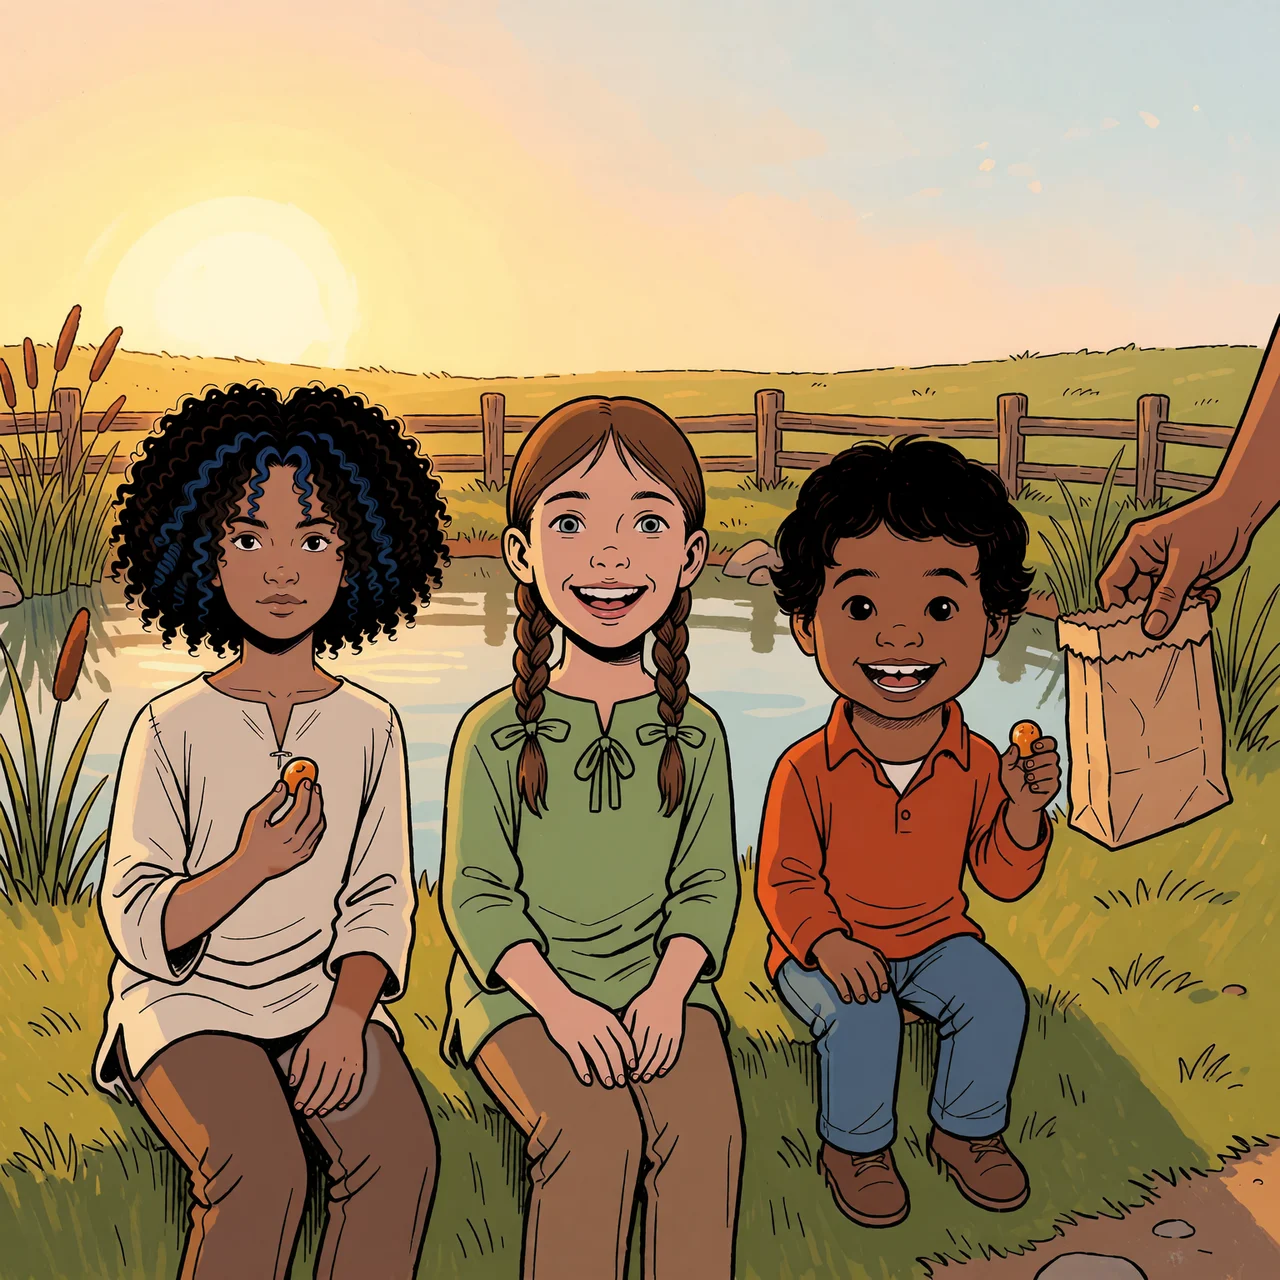
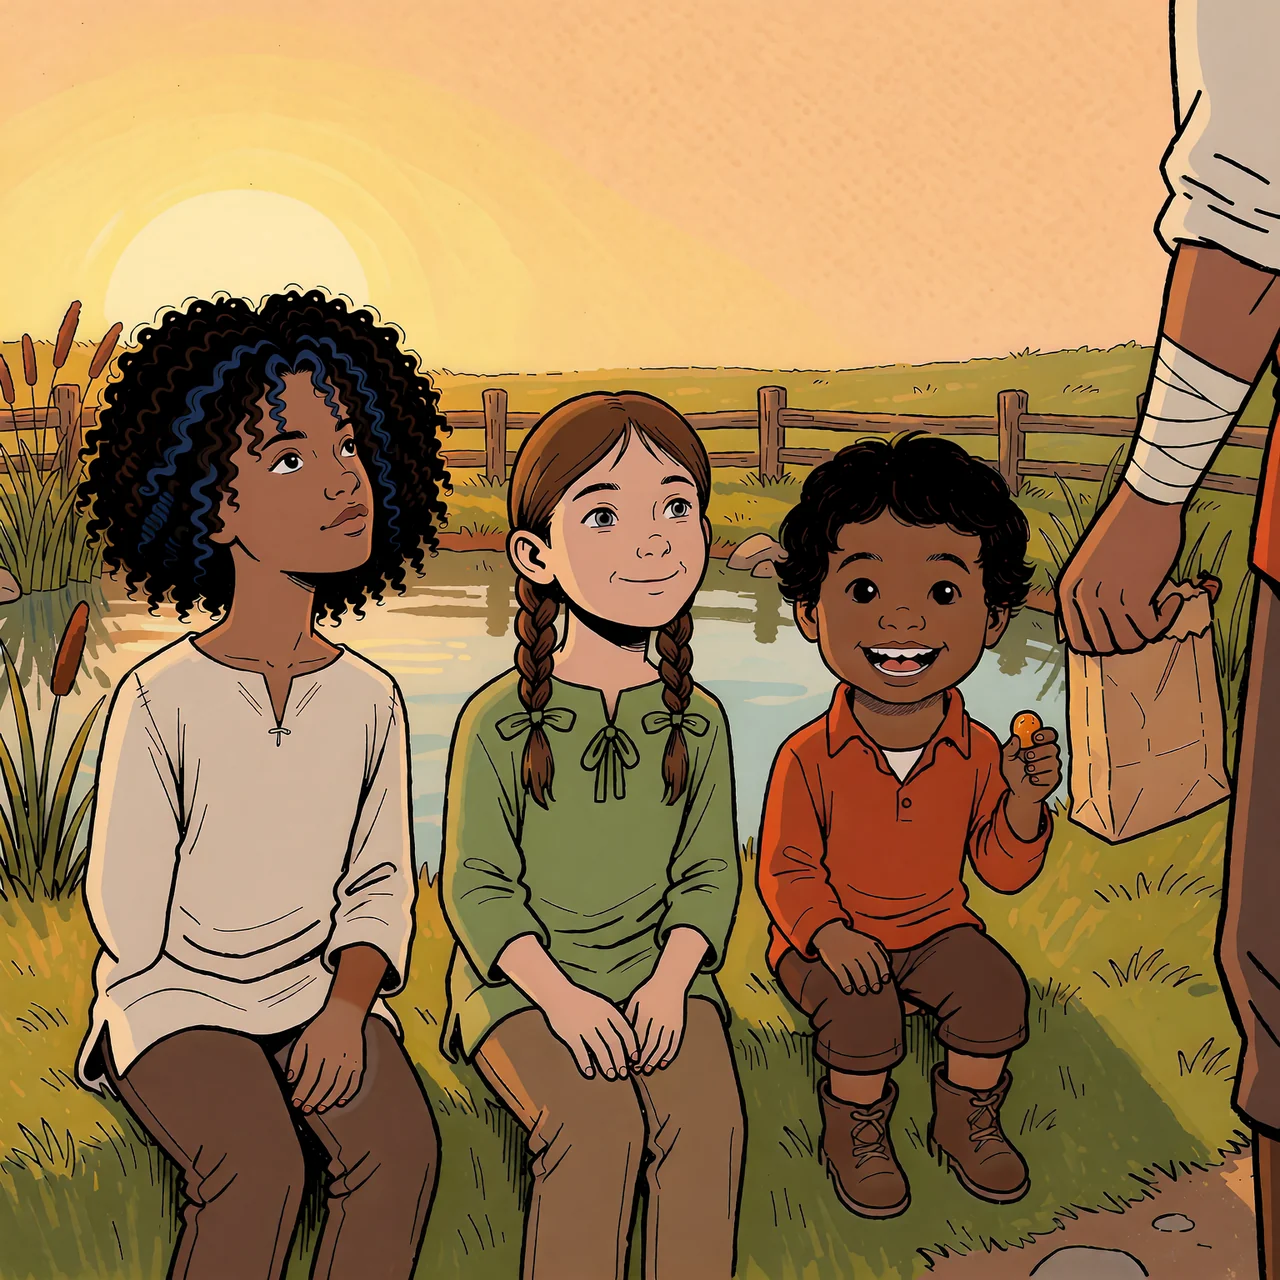
Walks 7 and 8: Kes and Lumi on the boards, the dock's north edge kept clear; Maudie facing the dock; redrawn skiff pictures
Claude-Session: https://claude.ai/code/session_01JTmPYBGE5RJi7qTbK5Qior

diff --git a/src/server/pond.ts b/src/server/pond.ts
@@ -256,15 +256,16 @@ export class PondRoom {
     this.spots = pondSpots(this.game.board, shrine.starts, shrine.house);
     this.gatheredAt = 1e9;
     const taken: Pt[] = [];
-    const put = (id: number, a: Anchor) => {
-      const at = this.openNear(this.anchor(a), taken);
+    const put = (id: number, a: Anchor, off?: [number, number]) => {
+      const base = this.anchor(a);
+      const at = this.openNear(off ? pt(base.x + off[0], base.y + off[1]) : base, taken);
       taken.push(at);
       const p = this.player(id);
       p.pos = p.prev = at;
       p.run = id === ROOK_ID;
     };
     W.people.forEach((p, i) => {
-      put(10 + i, p.at);
+      put(10 + i, p.at, p.off);
       this.walkLines.set(p.name, p.lines);
       // Anyone the story doesn't need where they are wanders about near their place.
       if (!p.stay && p.name !== W.go) {
@@ -302,7 +303,7 @@ export class PondRoom {
       const b = g.board;
       for (let tries = 0; tries < 12; tries++) {
         const to = pt(w.home.x + Math.round((this.rand() * 2 - 1) * Wd.range), w.home.y + Math.round((this.rand() * 2 - 1) * Wd.range));
-        if (!b.inside(to) || !b.passable(to, Mover.Walker) || g.players.some((q) => q.pos.x === to.x && q.pos.y === to.y)) continue;
+        if (!b.inside(to) || !b.passable(to, Mover.Walker) || this.banned(to) || g.players.some((q) => q.pos.x === to.x && q.pos.y === to.y)) continue;
         this.walk(id, to);
         break;
       }
@@ -327,8 +328,9 @@ export class PondRoom {
         return f ? pt(mid(f), f.y1 + 2) : this.spots.rook;
       }
       case "landing": {
+        // On the boards, one tile in from the dock's north edge (Ladi, 25 Nov: the edge row reads as standing on air).
         const k = box("skiff");
-        return k ? pt(k.x1 + 2, k.y0) : this.spots.rook;
+        return k ? pt(k.x1 + 3, k.y0 + 1) : this.spots.rook;
       }
       case "stall": {
         // Orrin's open workshop is the stall now (the horseshoe island): before its door, west.
@@ -366,9 +368,20 @@ export class PondRoom {
         for (let dx = -r; dx <= r; dx++) {
           if (Math.max(Math.abs(dx), Math.abs(dy)) !== r) continue;
           const q = pt(at.x + dx, at.y + dy);
-          if (b.inside(q) && b.passable(q, Mover.Walker) && !taken.some((t) => t.x === q.x && t.y === q.y)) return q;
+          if (b.inside(q) && b.passable(q, Mover.Walker) && !this.banned(q) && !taken.some((t) => t.x === q.x && t.y === q.y)) return q;
         }
     return at;
+  }
+
+  /**
+   * Tiles nobody is put or wanders to: the dock's north edge row, from its mooring post by the skiff
+   * to its land end, which reads as standing on air (Ladi, 25 Nov).
+   */
+  private banned(q: Pt) {
+    const ks = (this.game.shrine.props ?? []).filter((p) => p.kind === "skiff");
+    if (!ks.length) return false;
+    const x1 = Math.max(...ks.map((p) => p.x)), y0 = Math.min(...ks.map((p) => p.y));
+    return q.y === y0 && q.x >= x1 + 1 && q.x <= x1 + 6;
   }
 
   onTick() {
@@ -461,6 +474,12 @@ export class PondRoom {
     }
     for (const p of this.game.players) if (p.id !== ROOK_ID && p.pos.x === at.x && p.pos.y === at.y) return { name: p.name, at: () => this.player(p.id).pos };
     return null;
+  }
+
+  /** Where the walk's people face while they stand (WalkPerson.look). */
+  private looks() {
+    if (this.walkDef.n === 1 || !this.game) return [];
+    return this.walkDef.people.flatMap((p, i) => (p.look ? [{ id: 10 + i, ...this.anchor(p.look) }] : []));
   }
 
   /** Who to talk to next. Walk 1's waits until Hesta has come down to the pond. */
@@ -560,7 +579,9 @@ export class PondRoom {
     const talk = W.people.find((p) => p.name === thing.name)?.talk;
     if (talk && n === 0) {
       const on = W.n !== 1 && thing.name === W.go && this.chain && !first;
-      this.exchange(talk, on ? () => this.ask(thing, W.ask, "Go on") : undefined);
+      // After the walk's first talk, whoever has somewhere to be goes there, running (walk 7's Lumi).
+      const off = W.first?.name === thing.name ? () => W.people.forEach((p, i) => p.then && ((this.player(10 + i).run = true), this.walk(10 + i, this.openNear(this.anchor(p.then), [])))) : undefined;
+      this.exchange(talk, on ? () => this.ask(thing, W.ask, "Go on") : off);
       this.broadcast();
       return;
     }
@@ -669,7 +690,7 @@ export class PondRoom {
   }
 
   storyView(): StoryView {
-    return { run: POND.title, movement: 0, title: this.walkDef.n === 1 ? POND.title : this.walkDef.title, ring: null, mark: null, kes: 0, rival: null, note: "", pond: { lantern: this.spots.lantern, walk: this.walkDef.n, light: this.walkDef.light, ...(this.kitchen ? { kitchen: this.kitchen } : {}), ...(this.leavingAt >= 0 ? { leaving: true } : {}), ...(this.done ? { done: true } : {}), ...(this.optional ? { optional: this.optional } : {}), ...(this.goal() ? { goal: this.goal()! } : {}), ...(this.asking ? { ask: { text: this.asking.text, choices: this.asking.choices, no: this.asking.no } } : {}) } };
+    return { run: POND.title, movement: 0, title: this.walkDef.n === 1 ? POND.title : this.walkDef.title, ring: null, mark: null, kes: 0, rival: null, note: "", pond: { lantern: this.spots.lantern, walk: this.walkDef.n, light: this.walkDef.light, ...(this.kitchen ? { kitchen: this.kitchen } : {}), ...(this.leavingAt >= 0 ? { leaving: true } : {}), ...(this.done ? { done: true } : {}), ...(this.optional ? { optional: this.optional } : {}), ...(this.goal() ? { goal: this.goal()! } : {}), ...(this.looks().length ? { looks: this.looks() } : {}), ...(this.asking ? { ask: { text: this.asking.text, choices: this.asking.choices, no: this.asking.no } } : {}) } };
   }
 
   view(): RoomView {

diff --git a/src/engine/walks.ts b/src/engine/walks.ts
@@ -25,6 +25,12 @@ export interface WalkPerson {
   offer?: { lines: { who: string; text: string }[]; ask: string; runs: { label: string; run: "o1" | "o2" | "o3a" | "o3b" | "o3c"; then?: { who: string; text: string }[] }[] };
   /** Said over their head now and then while he is not close (Maudie's "When you've finished playing."). */
   idle?: string;
+  /** Tiles from their place (east, south), to stand clear of something there (walk 7: off the landing's posts, onto the grass). */
+  off?: [number, number];
+  /** Where they face while standing (walk 7: Maudie toward the landing). */
+  look?: Anchor;
+  /** Where they go on their own once the walk's `first` talk is done (walk 7: Lumi runs home). */
+  then?: Anchor;
   /** An exchange said on the first tap, one line after another, who by who (Kes's challenge in walk 7); later taps say `lines`. */
   talk?: { who: string; text: string }[];
 }
@@ -88,8 +94,10 @@ export const WALKS: Walk[] = [
     n: 7, title: "Sunset", light: "sunset", after: 4, next: 5, go: "Lumi", start: "landing",
     first: { name: "Kes", goal: "Talk to Kes" }, goal: "Go home", ask: "Turn in for the night?",
     people: [
+      // Ladi (25 Nov): Kes a little onto the grass, Lumi by her for the talk, Moth off the anchor post;
+      // after the talk Lumi runs home on her own.
       {
-        name: "Kes", at: "landing", stay: true, lines: ["Tomorrow, then. The Fell. Bring the referee."],
+        name: "Kes", at: "landing", off: [4, -1], stay: true, lines: ["Tomorrow, then. The Fell. Bring the referee."],
         talk: [
           { who: "Kes", text: "You took my pupil on a job." },
           { who: "Rook", text: "She's my daughter." },
@@ -98,12 +106,13 @@ export const WALKS: Walk[] = [
           { who: "Kes", text: "Tomorrow, then. The Fell. Bring the referee." },
         ],
       },
-      { name: "Maudie", at: "path", stay: true, lines: ["Ten years that girl ate at my table. Her and Ros.", "I know that look on her.", "Go on in. That child's asleep on her feet."] },
-      { name: "Moth", at: "landing", lines: ["Both stops before supper. Granny will say she planned it."] },
+      // Ladi: near enough to watch, far enough not to be part of it, facing the dock.
+      { name: "Maudie", at: "landing", off: [9, -5], look: "landing", stay: true, lines: ["Ten years that girl ate at my table. Her and Ros.", "I know that look on her.", "Go on in. That child's asleep on her feet."] },
+      { name: "Moth", at: "landing", stay: true, lines: ["Both stops before supper. Granny will say she planned it."] },
       { name: "Hesta", at: "chair", stay: true, lines: ["Back already? I'd barely shut my eyes."] },
       { name: "Nell", at: "pond", lines: ["Did they pay you?"] },
       { name: "Sefa", at: "pond", lines: ["Did you see a fish?"] },
-      { name: "Lumi", at: "door", stay: true, lines: ["Marit said 'Thank you, Lumi.' You heard her."], talk: [{ who: "Lumi", text: "Marit said 'Thank you, Lumi.' You heard her." }, { who: "Rook", text: "I heard her." }] },
+      { name: "Lumi", at: "landing", off: [4, 0], then: "door", stay: true, lines: ["Marit said 'Thank you, Lumi.' You heard her."], talk: [{ who: "Lumi", text: "Marit said 'Thank you, Lumi.' You heard her." }, { who: "Rook", text: "I heard her." }] },
     ],
   },
   {

diff --git a/src/client/part1.ts b/src/client/part1.ts
@@ -92,23 +92,23 @@ export interface Held {
 export const HELD: Record<string, Held> = {
   // 4-5 is now two pictures with two walks between them (story/gap4-5-walk-beats.md, Ladi's shape, 25
   // Nov): the skiff coming in, then walks 7 and 8, then the skiff leaving. No words in either picture;
-  // Kes's challenge is said in walk 7. Both are to be redrawn by the cutscene thread from the personas
-  // (Ladi: Maudie off model and facing the camera, strangers in the boat); these are the old ones.
+  // Kes's challenge is said in walk 7. Both redrawn by the cutscene thread from the personas on Ladi's
+  // notes (production/story/part1/skiff-home/final-2/), its picks, not seen by him.
   "4-5": {
-    tag: "Old picture, being redrawn",
+    tag: "Picture not seen by Ladi",
     fade: 0.7,
     lead: 0,
     line: 2.6,
     gap: 0.4,
-    pictures: [{ slot: "skiff-1-kes-waiting", hold: 4 }],
+    pictures: [{ slot: "skiff-1-arrives-sunset", hold: 5 }],
   },
   "4-5b": {
-    tag: "Old picture, being redrawn",
+    tag: "Picture not seen by Ladi",
     fade: 0.7,
     lead: 0,
     line: 2.6,
     gap: 0.4,
-    pictures: [{ slot: "skiff-3-leaving", hold: 4 }],
+    pictures: [{ slot: "skiff-2-leaves-morning", hold: 4 }],
   },
   // 7-8b, Hesta's hands at night, then the morning (production/story/part1/hands/final/README.md, 25
   // Nov): the cutscene thread's picks; Ladi was sent an earlier draft on 23 Nov and has not ruled.
@@ -183,7 +183,7 @@ export const HELD: Record<string, Held> = {
   // every line is a caption until he has read it (the story thread's advice: its voiced lines are the
   // peak of Part 1). Picture 24 is 23 with the light gone. The end of Part 1.
   "11": {
-    tag: "Rough first draft. Pictures and story not seen by Ladi",
+    tag: "Rough first draft, being redrawn. Pictures and story not seen by Ladi",
     shape: "four3",
     fade: 0.6,
     lead: 0.5,

diff --git a/src/client/main.ts b/src/client/main.ts
@@ -2684,7 +2684,7 @@ function frame(now: number) {
     });
     drawSnap = drawPrev = { ...snap, wisps };
   }
-  const st: DrawState = { shrine, prev: drawPrev, snap: drawSnap, t, me, flames, cast: castOf(), hoverWisp: lit, now, watchers: (lastWatchers = watchersFor(shrine.board)), staticOn: staticCut && now < staticCut.until ? staticCut.player : undefined, steps: stepsFor(shrine.board), lantern: room?.story?.pond?.lantern, light: room?.story?.pond?.light, dying: room?.story?.dying, sieve: room?.story?.sieve, rescue: room?.story?.rescue, opt: room?.story?.opt, ship: room?.story?.ship, walk: room?.story?.pond?.walk };
+  const st: DrawState = { shrine, prev: drawPrev, snap: drawSnap, t, me, flames, cast: castOf(), hoverWisp: lit, now, watchers: (lastWatchers = watchersFor(shrine.board)), staticOn: staticCut && now < staticCut.until ? staticCut.player : undefined, steps: stepsFor(shrine.board), lantern: room?.story?.pond?.lantern, light: room?.story?.pond?.light, dying: room?.story?.dying, sieve: room?.story?.sieve, rescue: room?.story?.rescue, opt: room?.story?.opt, ship: room?.story?.ship, walk: room?.story?.pond?.walk, looks: room?.story?.pond?.looks };
   world.render(st);
   drawOverlay(g, cam, st);
   // On touch, ring the wisp the Staff button will work on.

diff --git a/src/client/view3d.ts b/src/client/view3d.ts
@@ -72,6 +72,8 @@ export interface DrawState {
   ship?: NonNullable<import("../engine/protocol.js").StoryView["ship"]>;
   /** The walk on the island (1 to 5): the Willing Girl has ribbons from walk 3, fresh flowers in walk 5. */
   walk?: number;
+  /** A walk's people who face somewhere while they stand (Maudie toward the dock in walk 7). */
+  looks?: { id: number; x: number; y: number }[];
 }
 
 // ------------------------------------------------------------------ camera
@@ -4289,6 +4291,8 @@ export class World {
       // Run 9, busy Kes standing: her face to what she is watching (the patch, the west, the people she waves aboard).
       const look = st.rescue?.kes === p.id ? st.rescue.kesLook : undefined;
       if (look && !moving && p.beam === null) face = Math.atan2(this.worldX(b, look.x) - wx, this.worldZ(b, look.y) - wz);
+      const toward = st.looks?.find((q) => q.id === p.id);
+      if (toward && !moving && p.beam === null) face = Math.atan2(this.worldX(b, toward.x) - wx, this.worldZ(b, toward.y) - wz);
       rig.facing = lerpAngle(rig.facing, face, 0.18);
       const anim = rig.body?.userData.anim as CastAnim | undefined;
       if (anim) {

diff --git a/src/engine/protocol.ts b/src/engine/protocol.ts
@@ -227,7 +227,7 @@ export interface StoryView {
   };
   /** The free walk on the pond: no score, people can be tapped, and Lumi's lantern lies by the water. */
   /** kitchen: how many times Rook has gone in his door this walk (from walk 2); a rise opens the kitchen still. */
-  pond?: { lantern: { x: number; y: number }; leaving?: boolean; walk?: number; light?: "afternoon" | "morning" | "sunset" | "night" | "dusk"; kitchen?: number;
+  pond?: { lantern: { x: number; y: number }; leaving?: boolean; walk?: number; light?: "afternoon" | "morning" | "sunset" | "night" | "dusk"; looks?: { id: number; x: number; y: number }[]; kitchen?: number;
     /** Part 1's chain: the walk's last tap was made, and the page goes on. */
     done?: boolean;
     /** An optional run asked for in the walk (counted, so each ask opens it once). */

diff --git a/CREDITS.md b/CREDITS.md
@@ -27,7 +27,7 @@ subscription-only billing so no Spark was spent. Sources are in the project file
 | story/*.webp (run 1's ending and run 2's opening pictures) | Drafts from the cast and cutscene art threads (`production/story/slots/` and `production/story/v3/`, 2026-11-23), not yet approved by Ladi; converted to WebP |
 | story/kindling-underside.webp, story/kindling-heart-small.webp, story/kindling-heart-big.webp, story/kindling-hearts.webp, story/kindling-eye-glint.webp (run 1's ending: the home island from below in its horseshoe shape, both hearts down to embers; the two hearts lit as separate layers; the sky from below with home in its new shape, approved by Ladi at 11:46 AM, "Islands from below lgtm"; and home's one light among them, the 2026-11-23 glint trimmed tighter) | Painted by the cutscene thread on Sogni, 2026-11-24 (`sogni/lanternfall/production/story/v4/`), with krea2_identity_edit_v1_2 on the subscription, 0 Spark, plus its own code, as that thread reports; it says Ladi approved the underside that day and chose two hearts. ❓ That thread has not read the model's licence terms, the same caveat as the run 8 stills. Converted to WebP, same size (1536 square) | Run 1's ending, over the rim and down the underside: the small heart under the Kindling ground lights first, then the big one at the tip; then the islands from below, home's light as bright as the score |
 | story/walk-kitchen.webp (Rook's kitchen, walk 2) | The cutscene art thread's picture (`production/story/part1/kitchen/kitchen-tappable-walk2-draft-3.png`, 2026-11-24), the lantern with its approved hook handle; that thread reports Ladi's "Yes" at 11:47 AM on 2026-11-24 as covering it. ❓ It has not read the model's licence terms, the same caveat as its other pictures. Converted to WebP at 1280 px |
-| story/gt-*.webp (the glow test before run 6, seven wide pictures with two light layers), story/dream-*.webp (the dream before run 1, eight pictures), story/skiff-*.webp (the skiff home, 4-5, three pictures), story/sendoff-*.webp (the beacon and the send-off, 8-9b, thirteen pictures), story/handoff-*.webp (before the stranger's ship, 9-10, eight pictures), story/offering-*.webp (the Offering, 11, 25 pictures, a rough first draft) and story/hands-*.webp (Hesta's hands at night and the morning after, 7-8b, four pictures and a shake layer) | The cutscene art thread's final sets (`production/story/part1/glowtest/final/`, `production/story/dream/final/`, `production/story/part1/skiff-home/final/`, `production/story/part1/send-off/final/`, `production/story/handoff-9-10/final/`, `production/story/offering/final/` and `production/story/part1/hands/final/`, 2026-11-25), drawn on Sogni on the subscription as that thread reports, 0 Spark. Glow test: six pictures approved by Ladi on 23 and 24 Nov; gt-5-rook-proud is that thread's pick, not seen by him. Dream: all eight are that thread's picks; Ladi saw the rough storyboard only. Skiff home, send-off, hands, the pictures before the ship and the Offering: that thread's picks, not seen by Ladi. ❓ That thread has not read the model's licence terms, the same caveat as its other pictures. Converted to WebP (glow test 1920x1080, dream 1024x768) | Part 1's held-picture scenes 0, 4-5, 5-6b, 7-8b, 8-9b, 9-10 and 11 (`src/client/part1.ts` DREAM, HELD and GLOW) |
+| story/gt-*.webp (the glow test before run 6, seven wide pictures with two light layers), story/dream-*.webp (the dream before run 1, eight pictures), story/skiff-*.webp (the skiff coming in at sunset and leaving the next morning, 4-5, redrawn from the personas on Ladi's notes in `production/story/part1/skiff-home/final-2/`; the first set's three are no longer used), story/sendoff-*.webp (the beacon and the send-off, 8-9b, thirteen pictures), story/handoff-*.webp (before the stranger's ship, 9-10, eight pictures), story/offering-*.webp (the Offering, 11, 25 pictures, a rough first draft) and story/hands-*.webp (Hesta's hands at night and the morning after, 7-8b, four pictures and a shake layer) | The cutscene art thread's final sets (`production/story/part1/glowtest/final/`, `production/story/dream/final/`, `production/story/part1/skiff-home/final/`, `production/story/part1/send-off/final/`, `production/story/handoff-9-10/final/`, `production/story/offering/final/` and `production/story/part1/hands/final/`, 2026-11-25), drawn on Sogni on the subscription as that thread reports, 0 Spark. Glow test: six pictures approved by Ladi on 23 and 24 Nov; gt-5-rook-proud is that thread's pick, not seen by him. Dream: all eight are that thread's picks; Ladi saw the rough storyboard only. Skiff home, send-off, hands, the pictures before the ship and the Offering: that thread's picks, not seen by Ladi. ❓ That thread has not read the model's licence terms, the same caveat as its other pictures. Converted to WebP (glow test 1920x1080, dream 1024x768) | Part 1's held-picture scenes 0, 4-5, 5-6b, 7-8b, 8-9b, 9-10 and 11 (`src/client/part1.ts` DREAM, HELD and GLOW) |
 | faces/kes-{alarmed,bereft}.webp, faces/grandmother-{steady,soft,talking}.webp, faces/grandfather-neutral.webp (run 9) | Bubble faces from the cast art thread (project files `sogni/lanternfall/production/bubble-faces/`, 2026-11-24), 160 px WebP as delivered. Placeholders: the grandparents' look is a first draft Ladi has not approved, and Kes's two are being re-framed | Bark bubbles and the talk box in run 9; which face goes with which line is in `src/engine/moods.ts` |
 | models/low-house-{a,b,c}.glb, models/rescue-boat.glb, models/kes-drop.glb, models/cold-brazier.glb (run 9) | Draft 1 from the maps thread (project files `sogni/lanternfall/production/places/low-one/`, 2026-11-25): concepts by Sogni AI z_image_turbo_bf16, 3D by Sogni AI pixal3d_int8_i23d, slimmed and re-baked there; the boat's lamp post is procedural | The low one in run 9, in place of the block-outs (`src/client/rescue-dress.ts`) |
 | faces/lumi-delight-flash.webp | First draft from the cast art thread; Lumi's one open-mouth face in runs 1 and 2 |
